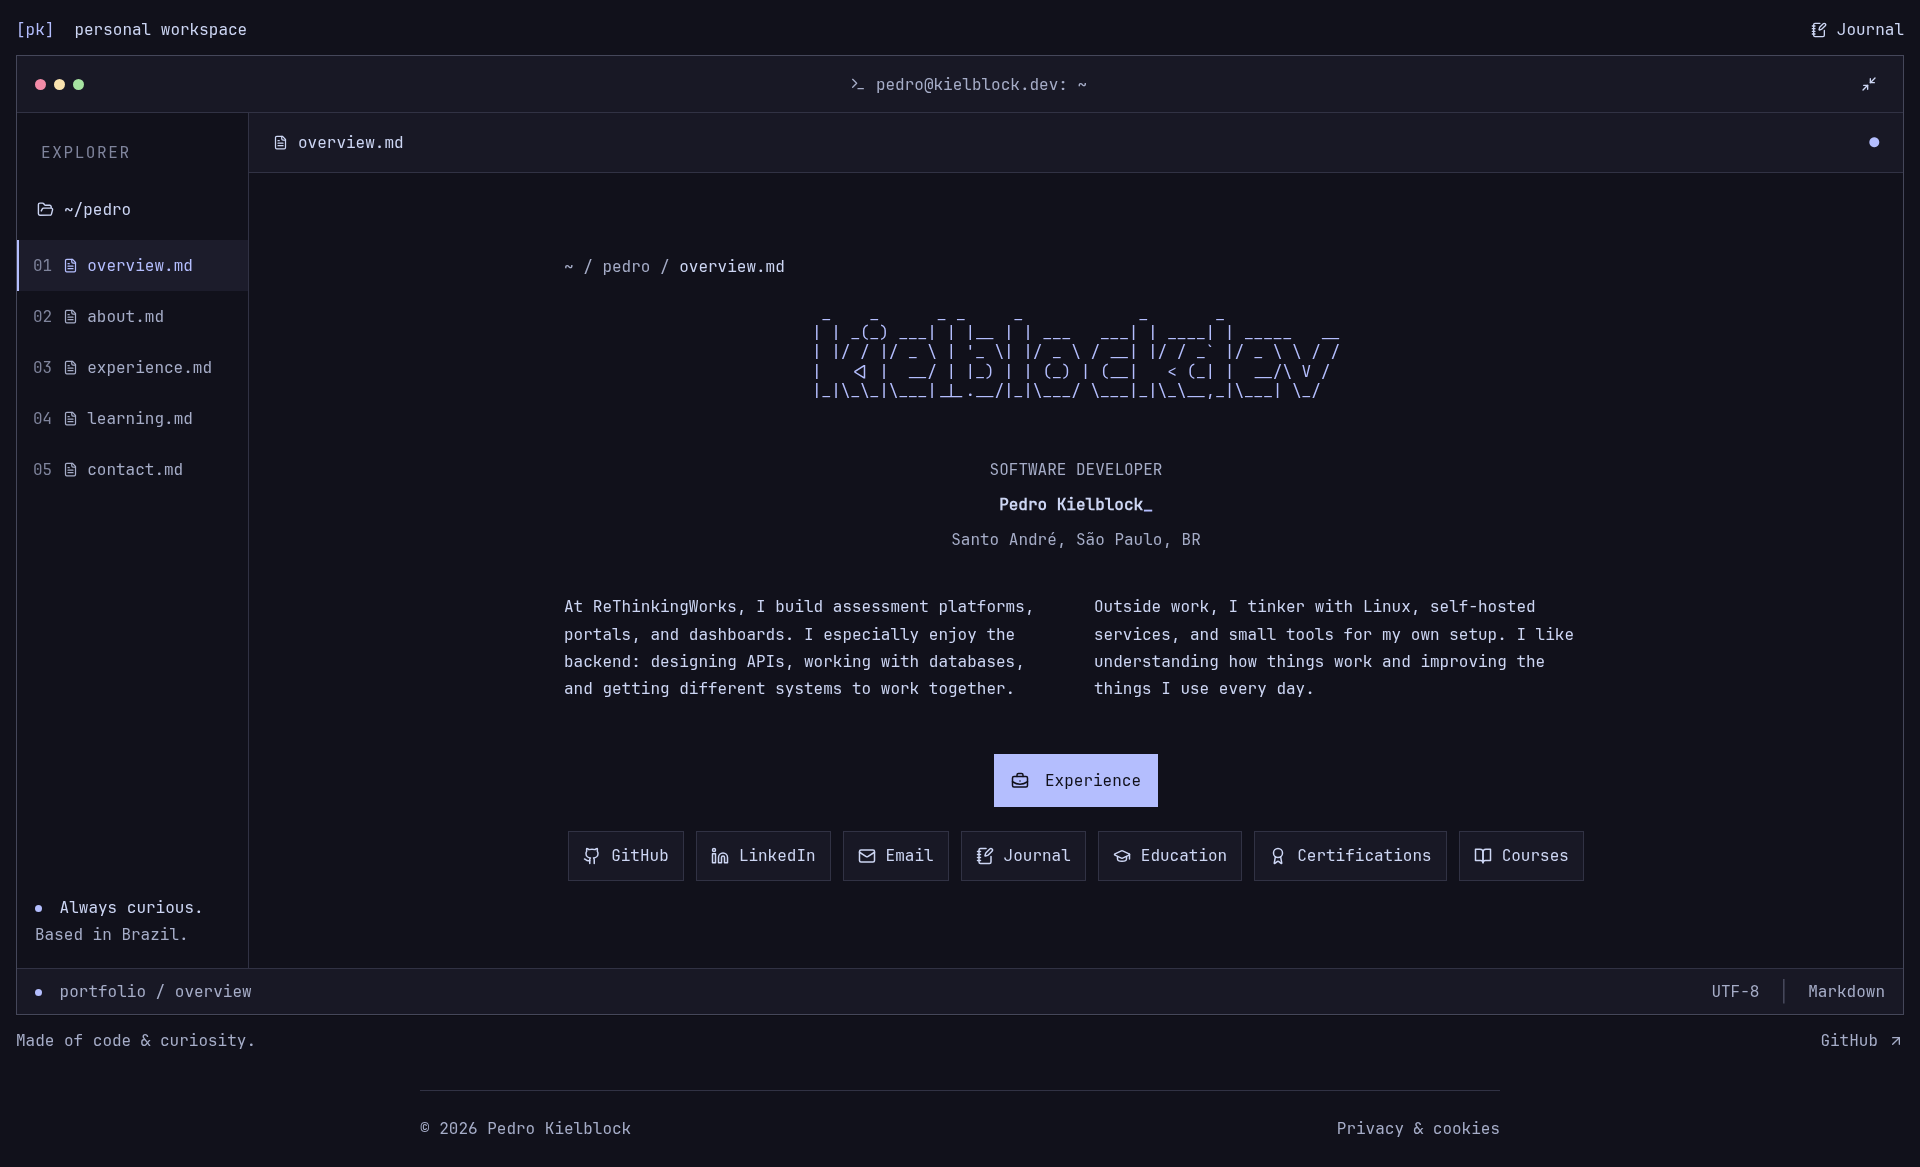
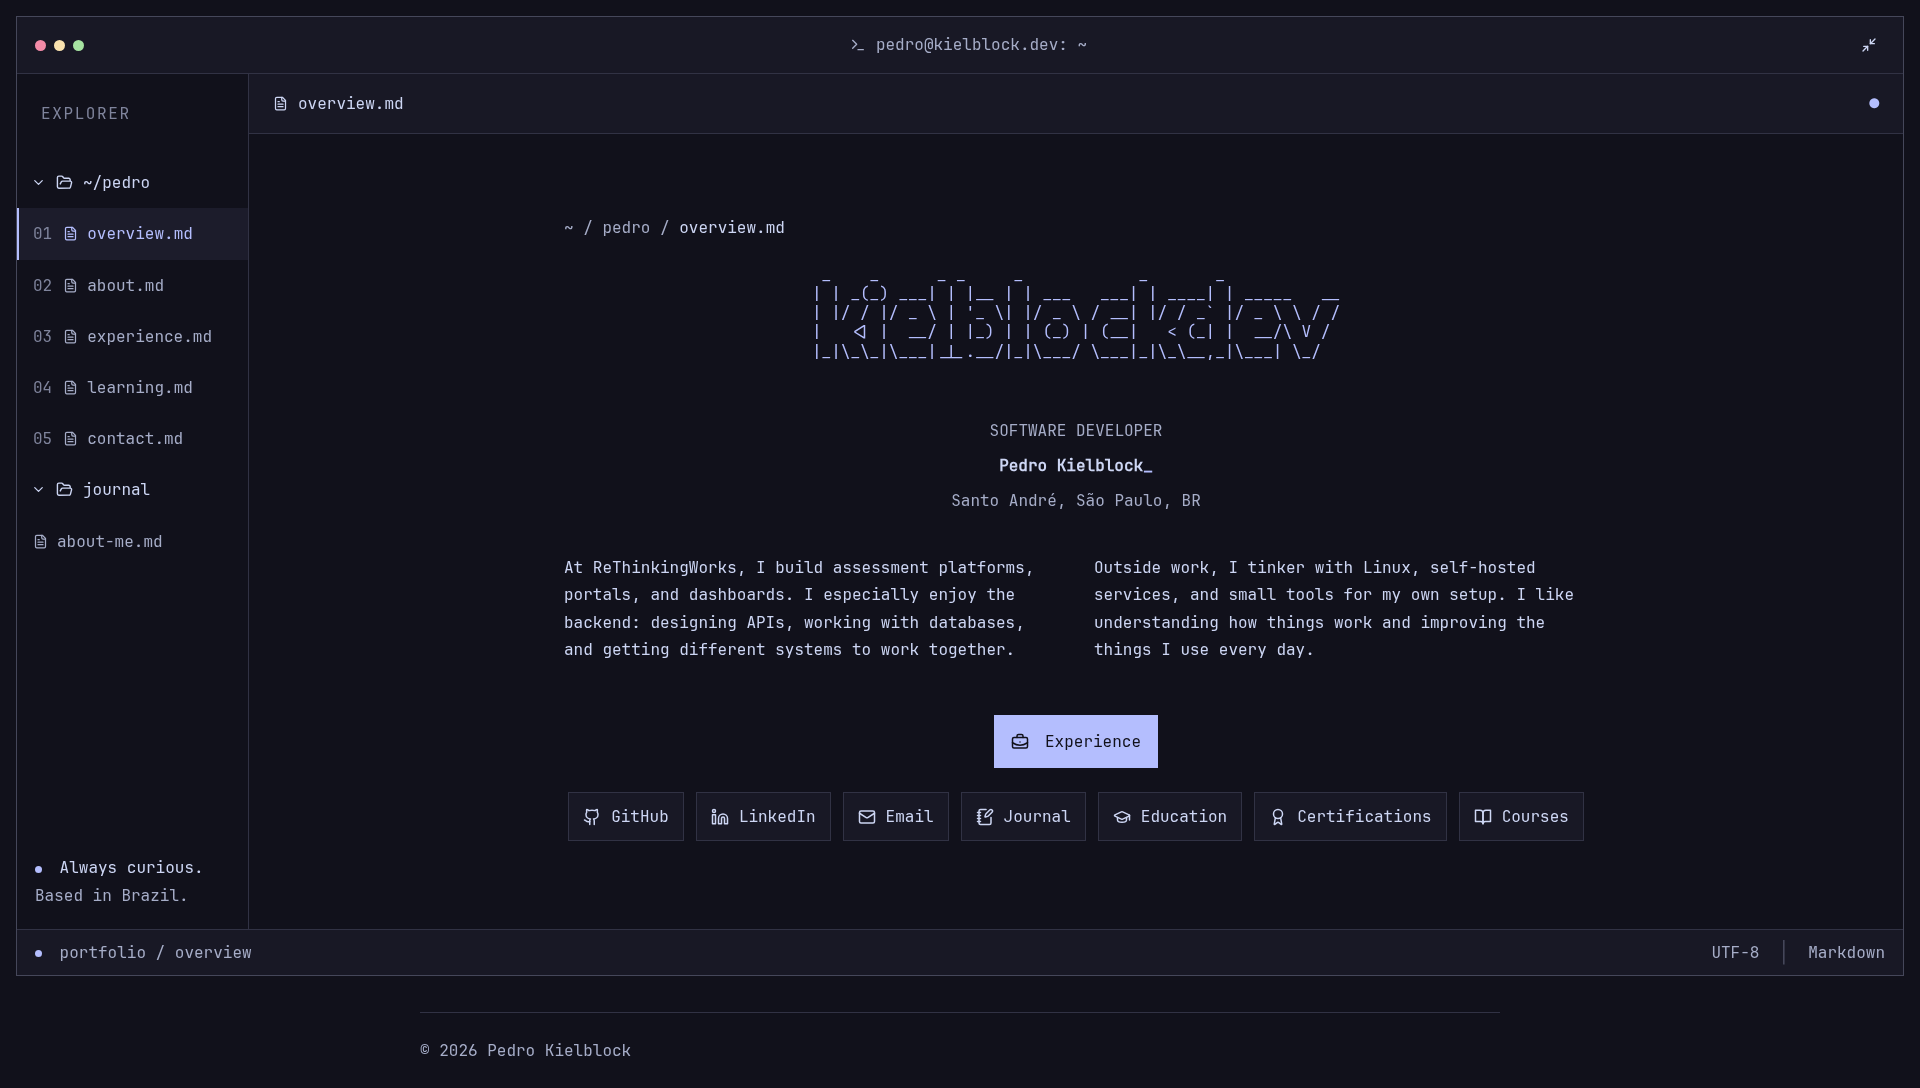
feat: add journal files to collapsible portfolio explorer

diff --git a/src/routes/+page.svelte b/src/routes/+page.svelte
@@ -1,5 +1,8 @@
 <script lang="ts">
 	import { page } from '$app/stores';
+	import type { ComponentType } from 'svelte';
+	import type { Post } from '$lib/types';
+	import { formatDate } from '$lib/utils';
 	import {
 		ArrowUpRight,
 		Award,
@@ -20,6 +23,19 @@
 	} from 'lucide-svelte';
 	import { DATA } from '$lib/data/resume';
 
+	const entries = Object.entries(
+		import.meta.glob<{ default: ComponentType; metadata: Omit<Post, 'slug'> }>(
+			'/src/content/*.md',
+			{ eager: true }
+		)
+	)
+		.map(([path, post]) => ({
+			...post.metadata,
+			content: post.default,
+			slug: path.split('/').at(-1)!.replace(/\.md$/, '')
+		}))
+		.filter((post) => post.published)
+		.sort((a, b) => b.date.localeCompare(a.date));
 	const sections = ['overview', 'about', 'experience', 'learning', 'contact'];
 	const learningSections: Record<string, string> = {
 		education: 'Education',
@@ -27,17 +43,22 @@
 		courses: 'Courses'
 	};
 	$: hash = $page.url.hash.slice(1);
-	$: section = Object.hasOwn(learningSections, hash)
-		? 'learning'
-		: sections.includes(hash)
-			? hash
-			: 'overview';
+	$: entry = entries.find((post) => hash === 'journal/' + post.slug);
+	$: section =
+		hash === 'journal' || entry
+			? 'journal'
+			: Object.hasOwn(learningSections, hash)
+				? 'learning'
+				: sections.includes(hash)
+					? hash
+					: 'overview';
+	$: filename = entry ? entry.slug + '.md' : section + '.md';
 	$: if (Object.hasOwn(learningSections, hash)) learning = learningSections[hash];
 	const shortcuts = [
 		{ label: 'GitHub', href: DATA.contact.social.GitHub.url, icon: Github, external: true },
 		{ label: 'LinkedIn', href: DATA.contact.social.LinkedIn.url, icon: Linkedin, external: true },
 		{ label: 'Email', href: DATA.contact.social.Mail.url, icon: Mail, external: false },
-		{ label: 'Journal', href: '/blog', icon: NotebookPen, external: false },
+		{ label: 'Journal', href: '#journal', icon: NotebookPen, external: false },
 		{ label: 'Education', href: '#education', icon: GraduationCap, external: false },
 		{ label: 'Certifications', href: '#certifications', icon: Award, external: false },
 		{ label: 'Courses', href: '#courses', icon: BookOpen, external: false }
@@ -74,11 +95,6 @@
 			</p>
 		</div>
 	</div>
-	<div class="desktop-heading">
-		<span><span class="accent">[pk]</span> personal workspace</span><a href="/blog"
-			><NotebookPen size={16} /> Journal</a
-		>
-	</div>
 	<section class="terminal-window" aria-label="Pedro Kielblock portfolio">
 		<header class="window-bar">
 			<span class="window-dots" aria-hidden="true"><i></i><i></i><i></i></span>
@@ -94,19 +110,41 @@
 		<div class="window-body">
 			<aside class="explorer">
 				<p class="explorer-label">EXPLORER</p>
-				<p class="folder"><FolderOpen size={17} /> ~/pedro</p>
-				<nav aria-label="Portfolio sections">
-					{#each sections as item, i}
-						<a
-							href={'#' + item}
-							class:selected={section === item}
-							aria-current={section === item ? 'page' : undefined}
-							><span class="file-number" aria-hidden="true">0{i + 1}</span><FileText
-								size={15}
-							/><span>{item}<span class="file-extension">.md</span></span></a
-						>
-					{/each}
-				</nav>
+				<details class="explorer-folder" open>
+					<summary class="folder"
+						><ChevronRight size={15} /><FolderOpen size={17} /> ~/pedro</summary
+					>
+					<nav aria-label="Portfolio sections">
+						{#each sections as item, i}
+							<a
+								href={'#' + item}
+								class:selected={section === item}
+								aria-current={section === item ? 'page' : undefined}
+								><span class="file-number" aria-hidden="true">0{i + 1}</span><FileText
+									size={15}
+								/><span>{item}<span class="file-extension">.md</span></span></a
+							>
+						{/each}
+					</nav>
+				</details>
+				<details class="explorer-folder" open>
+					<summary class="folder"
+						><ChevronRight size={15} /><FolderOpen size={17} /> journal</summary
+					>
+					<nav aria-label="Journal entries">
+						{#each entries as post}
+							<a
+								href={'#journal/' + post.slug}
+								class:selected={entry === post}
+								aria-current={entry === post ? 'page' : undefined}
+								title={post.title}
+							>
+								<FileText size={15} /><span>{post.slug}<span class="file-extension">.md</span></span
+								>
+							</a>
+						{:else}<p class="muted journal-empty">No entries yet.</p>{/each}
+					</nav>
+				</details>
 				<div class="explorer-bottom">
 					<span class="status-dot"></span> Always curious.<br /><span class="muted"
 						>Based in Brazil.</span
@@ -115,7 +153,7 @@
 			</aside>
 			<div class="document">
 				<div class="document-tab">
-					<span><FileText size={15} /> {section}.md</span><span class="accent" aria-hidden="true"
+					<span><FileText size={15} /> {filename}</span><span class="accent" aria-hidden="true"
 						>●</span
 					>
 				</div>
@@ -126,12 +164,29 @@
 					class="document-content"
 					id="document-content"
 					tabindex="0"
-					aria-label={section + ' content'}
+					aria-label={(entry?.title ?? section) + ' content'}
 				>
-					{#key section}
+					{#key filename}
 						<div class="document-inner" class:overview={section === 'overview'}>
-							<p class="breadcrumb">~ / pedro / <span>{section}.md</span></p>
-							{#if section === 'overview'}
+							<p class="breadcrumb">
+								~ / {section === 'journal' ? 'journal' : 'pedro'} / <span>{filename}</span>
+							</p>
+							{#if section === 'journal'}
+								{#if entry}
+									<h1>{entry.title}</h1>
+									<p class="muted">{formatDate(entry.date)}</p>
+									<article class="journal-content prose dark:prose-invert">
+										<svelte:component this={entry.content} />
+									</article>
+								{:else}
+									<h1><span class="accent">#</span> Journal</h1>
+									{#each entries as post}<p class="body-copy">
+											<a class="plain-link" href={'#journal/' + post.slug}>{post.slug}.md</a>
+											<span class="muted">{formatDate(post.date)}</span>
+										</p>
+									{:else}<p class="body-copy muted">No entries yet.</p>{/each}
+								{/if}
+							{:else if section === 'overview'}
 								<pre
 									class="ascii-wordmark full-wordmark"
 									role="img"
@@ -293,11 +348,4 @@
 			>
 		</footer>
 	</section>
-	<div class="desktop-bottom">
-		<span>Made of code & curiosity.</span><a
-			href={DATA.contact.social.GitHub.url}
-			target="_blank"
-			rel="noopener noreferrer">GitHub <ArrowUpRight size={16} /></a
-		>
-	</div>
 </main>

diff --git a/src/app.css b/src/app.css
@@ -130,22 +130,6 @@ h2 {
 	width: min(1080px, calc(100% - 80px));
 	margin: 48px auto 0;
 }
-.desktop-heading,
-.desktop-bottom {
-	display: flex;
-	justify-content: space-between;
-	align-items: center;
-	gap: 20px;
-}
-.desktop-heading {
-	margin-bottom: 24px;
-}
-.desktop-heading > span {
-	display: flex;
-	gap: 20px;
-}
-.desktop-heading a,
-.desktop-bottom a,
 .plain-link {
 	display: inline-flex;
 	align-items: center;
@@ -218,6 +202,7 @@ a:hover {
 	display: flex;
 	flex-direction: column;
 	background: #11111b;
+	overflow-y: auto;
 }
 .explorer-label {
 	padding: 0 24px;
@@ -229,8 +214,42 @@ a:hover {
 	display: flex;
 	gap: 10px;
 	align-items: center;
-	padding: 0 20px;
-	margin-bottom: 16px;
+	padding: 12px 14px;
+	cursor: pointer;
+	list-style: none;
+}
+.folder::-webkit-details-marker {
+	display: none;
+}
+.explorer-folder[open] > .folder > svg:first-child {
+	transform: rotate(90deg);
+}
+.explorer-folder {
+	min-width: 0;
+}
+.explorer nav a > span:last-child {
+	overflow-wrap: anywhere;
+	min-width: 0;
+}
+.explorer nav svg,
+.folder svg {
+	flex-shrink: 0;
+}
+.journal-empty {
+	padding: 12px 24px;
+}
+.journal-content {
+	max-width: none;
+	margin-top: 24px;
+	overflow-wrap: anywhere;
+}
+.journal-content pre {
+	overflow-x: auto;
+	background: var(--crust) !important;
+	font-size: 16px;
+}
+.journal-content pre code {
+	font-size: inherit;
 }
 .explorer nav a {
 	display: flex;
@@ -397,14 +416,10 @@ a:hover {
 .plain-link {
 	color: var(--lavender);
 }
-.plain-link svg,
-.desktop-heading a svg,
-.desktop-bottom a svg {
+.plain-link svg {
 	transition: transform 0.18s;
 }
-.plain-link:hover svg:last-child,
-.desktop-heading a:hover svg,
-.desktop-bottom a:hover svg {
+.plain-link:hover svg:last-child {
 	transform: translate(2px, -2px);
 }
 .window-status {
@@ -420,10 +435,6 @@ a:hover {
 .status-separator {
 	margin: 0 10px;
 	color: #45475a;
-}
-.desktop-bottom {
-	color: var(--muted-text);
-	margin-top: 24px;
 }
 .site-footer {
 	display: flex;
@@ -626,14 +637,6 @@ a:hover {
 		width: calc(100% - 24px);
 		margin-top: 18px;
 	}
-	.desktop-heading {
-		align-items: flex-start;
-		padding: 0 4px;
-	}
-	.desktop-heading > span {
-		gap: 8px;
-		flex-direction: column;
-	}
 	.window-title svg {
 		display: none;
 	}
@@ -664,7 +667,6 @@ a:hover {
 		border-bottom: 1px solid var(--line);
 	}
 	.explorer-label,
-	.folder,
 	.explorer-bottom,
 	.file-number,
 	.explorer nav svg {
@@ -676,6 +678,9 @@ a:hover {
 	}
 	.file-extension {
 		display: none;
+	}
+	.explorer nav[aria-label='Journal entries'] {
+		grid-template-columns: minmax(0, 1fr);
 	}
 	.explorer nav a {
 		justify-content: center;
@@ -705,13 +710,9 @@ a:hover {
 	.window-status > span:last-child {
 		display: none;
 	}
-	.desktop-bottom,
 	.site-footer {
 		flex-wrap: wrap;
 		gap: 16px;
-	}
-	.desktop-bottom {
-		padding: 0 8px;
 	}
 	.site-footer {
 		width: calc(100% - 40px);
@@ -817,12 +818,6 @@ a:hover {
 	}
 }
 
-.expanded .desktop-heading {
-	margin-bottom: 12px;
-}
-.expanded .desktop-bottom {
-	margin-top: 12px;
-}
 @media (min-width: 1200px) {
 	.expanded .personal-intro {
 		display: grid;

diff --git a/src/routes/+layout.svelte b/src/routes/+layout.svelte
@@ -19,5 +19,5 @@
 	<slot />
 </div>
 <footer class="site-footer">
-	<span>© {new Date().getFullYear()} Pedro Kielblock</span><a href="/privacy">Privacy & cookies</a>
+	<span>© {new Date().getFullYear()} Pedro Kielblock</span>
 </footer>

diff --git a/README.md b/README.md
@@ -6,7 +6,7 @@ A personal portfolio built with SvelteKit, TypeScript, and Tailwind CSS, deploye
 
 The portfolio uses a square terminal-style window with Catppuccin Mocha Crust surfaces, Lavender accents, and locally hosted JetBrains Mono at 16px. A `kielblockdev` ASCII wordmark sits above the profile. Icon buttons link to GitHub, LinkedIn, email, journal, education, certifications, and courses; the learning shortcuts open their category directly. It is a clickable website: file-style navigation opens overview, about, experience, learning, and contact views. Experience entries expand, learning categories switch, the window expands, and the email address can be copied. There is no command prompt.
 
-Navigation uses URL fragments, so sections can be linked directly. The workspace opens expanded by default and fills the desktop viewport with small outer margins. Content is centered in the document pane, with a two-column introduction on wide screens. On mobile, every section link remains visible in a navigation grid, a compact ASCII wordmark fits the screen, and content scrolls naturally with the page. Keyboard navigation, visible focus, and reduced-motion preferences are supported. The journal and privacy routes share the same theme. A matching SVG terminal favicon uses Crust and Lavender. On opening the homepage, a 3.5-second CSS sequence types `open overview.md`, pauses, then reveals the workspace; it does not block interaction or use timers or browser storage. Reduced-motion users see the workspace immediately. The homepage browser title is `pedro@kielblockdev`. The introduction covers work at ReThinkingWorks and personal interests in Linux, self-hosting, and small tools.
+Navigation uses URL fragments, so sections can be linked directly. The explorer has two collapsible folders: `~/pedro` contains the portfolio sections, and `journal` lists published Markdown entries. Selecting an entry opens it in the document pane; direct links use `/#journal/<slug>`. Both folders support mouse and keyboard controls on desktop and mobile. The outer workspace heading, tagline, GitHub bar, and privacy link have been removed; the privacy page remains available at `/privacy`. The workspace opens expanded by default and fills the desktop viewport with small outer margins. Content is centered in the document pane, with a two-column introduction on wide screens. On mobile, every section link remains visible in a navigation grid, a compact ASCII wordmark fits the screen, and content scrolls naturally with the page. Keyboard navigation, visible focus, and reduced-motion preferences are supported. The journal and privacy routes share the same theme. A matching SVG terminal favicon uses Crust and Lavender. On opening the homepage, a 3.5-second CSS sequence types `open overview.md`, pauses, then reveals the workspace; it does not block interaction or use timers or browser storage. Reduced-motion users see the workspace immediately. The homepage browser title is `pedro@kielblockdev`. The introduction covers work at ReThinkingWorks and personal interests in Linux, self-hosting, and small tools.
 
 ## Development
 
@@ -15,7 +15,7 @@ bun install --frozen-lockfile
 bun run dev
 ```
 
-Edit portfolio content in `src/lib/data/resume.ts`, the homepage in `src/routes/+page.svelte`, and shared styling in `src/app.css`. No environment variables are required.
+Edit portfolio content in `src/lib/data/resume.ts`, the homepage in `src/routes/+page.svelte`, and shared styling in `src/app.css`. Journal entries live in `src/content/*.md`: use frontmatter fields `title`, `description`, `date` (`YYYY-MM-DD`), `categories`, and `published: true`. The filename becomes the journal filename and URL slug; entries appear newest first. Existing `/blog` routes remain available. No environment variables are required.
 
 ```sh
 bun run check
@@ -30,13 +30,13 @@ The browser regression script uses an existing Playwright installation and Chrom
 PREVIEW_URL=http://127.0.0.1:4173 bun tests/portfolio.browser.mjs /absolute/path/to/playwright/index.mjs /absolute/path/to/chromium
 ```
 
-It checks the served SVG favicon, workspace opening animation and reduced-motion fallback, section navigation, history, expandable roles, learning categories, clipboard success and failure, window expansion, mobile overflow at 320/360/390/430/768px, landscape navigation, desktop viewport fill and content centering, reduced motion, keyboard focus, and journal/privacy routes. It also refreshes the desktop and mobile screenshots in `docs/`.
+It checks the served SVG favicon, workspace opening animation and reduced-motion fallback, section navigation, collapsible explorer folders, journal Markdown rendering and deep links, history, expandable roles, learning categories, clipboard success and failure, window expansion, mobile overflow at 320/360/390/430/768px, landscape navigation, desktop viewport fill and content centering, reduced motion, keyboard focus, and journal/privacy routes. It also refreshes the desktop and mobile screenshots in `docs/`.
 
 ## Preview
 
 ![Terminal-style portfolio overview](docs/portfolio-desktop.png)
 
-[Wide desktop](docs/portfolio-wide.png) · [Mobile](docs/portfolio-mobile.png) · [Opening sequence](docs/workspace-opening.png)
+[Wide desktop](docs/portfolio-wide.png) · [Mobile](docs/portfolio-mobile.png) · [Journal](docs/journal.png) · [Opening sequence](docs/workspace-opening.png)
 
 ## Credits
 
